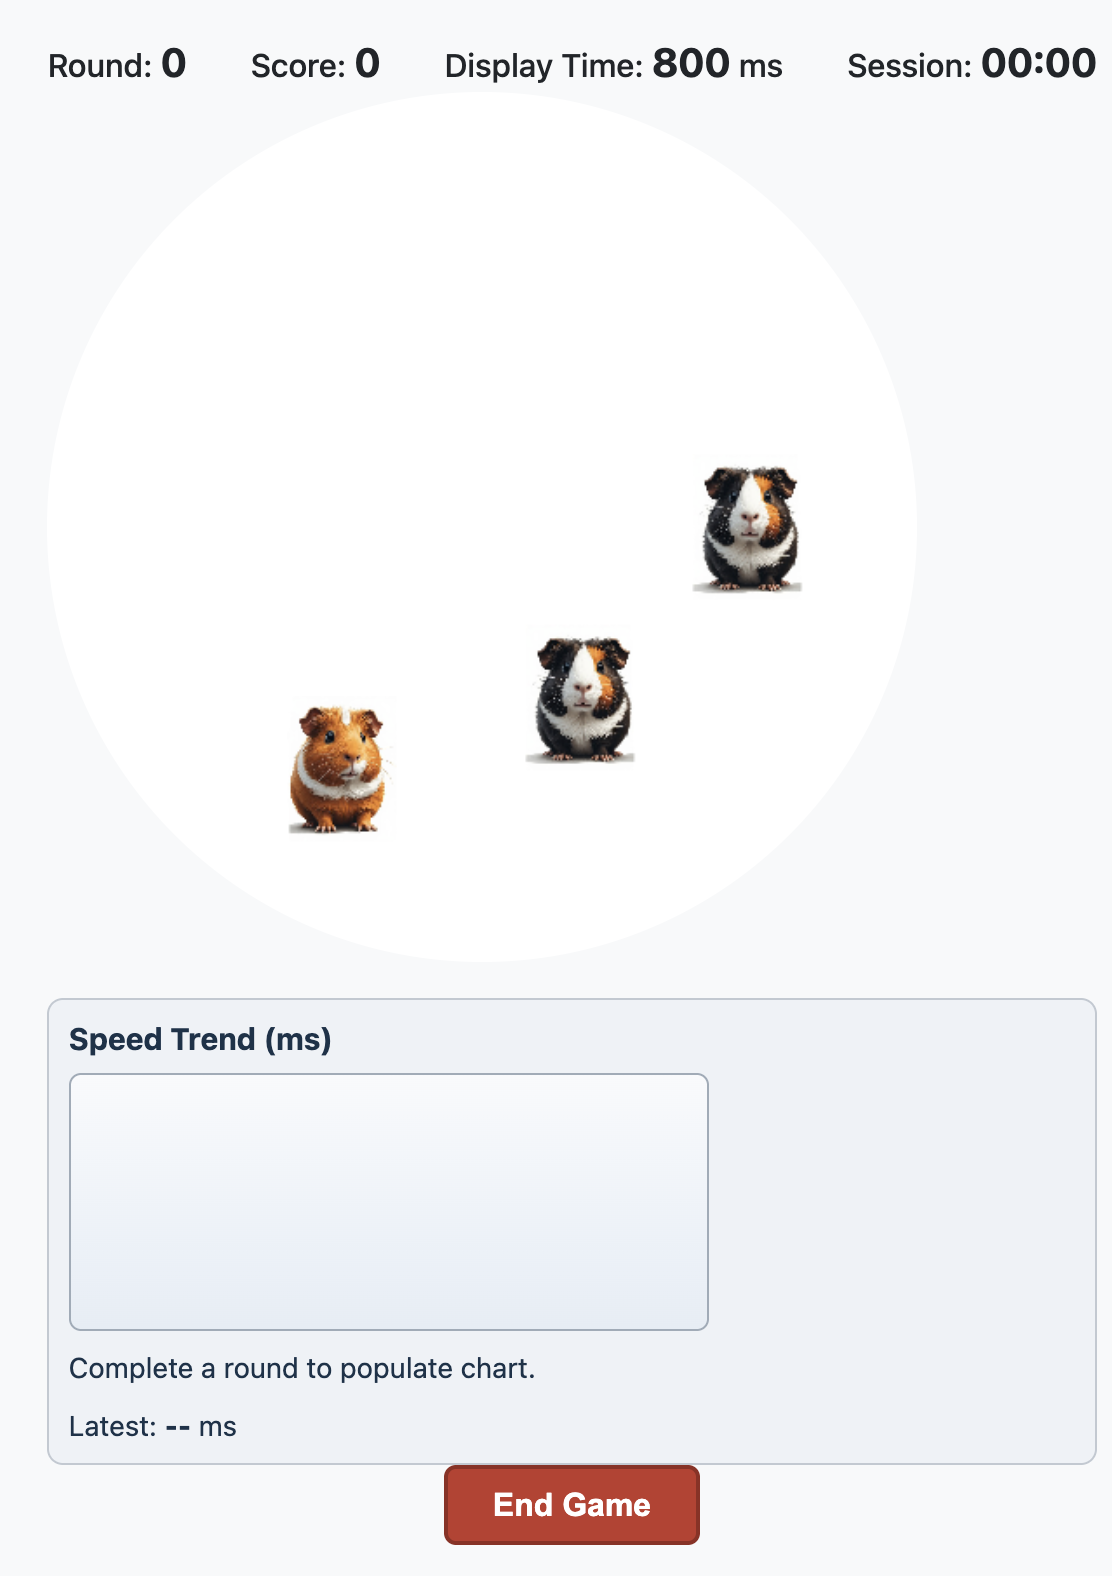
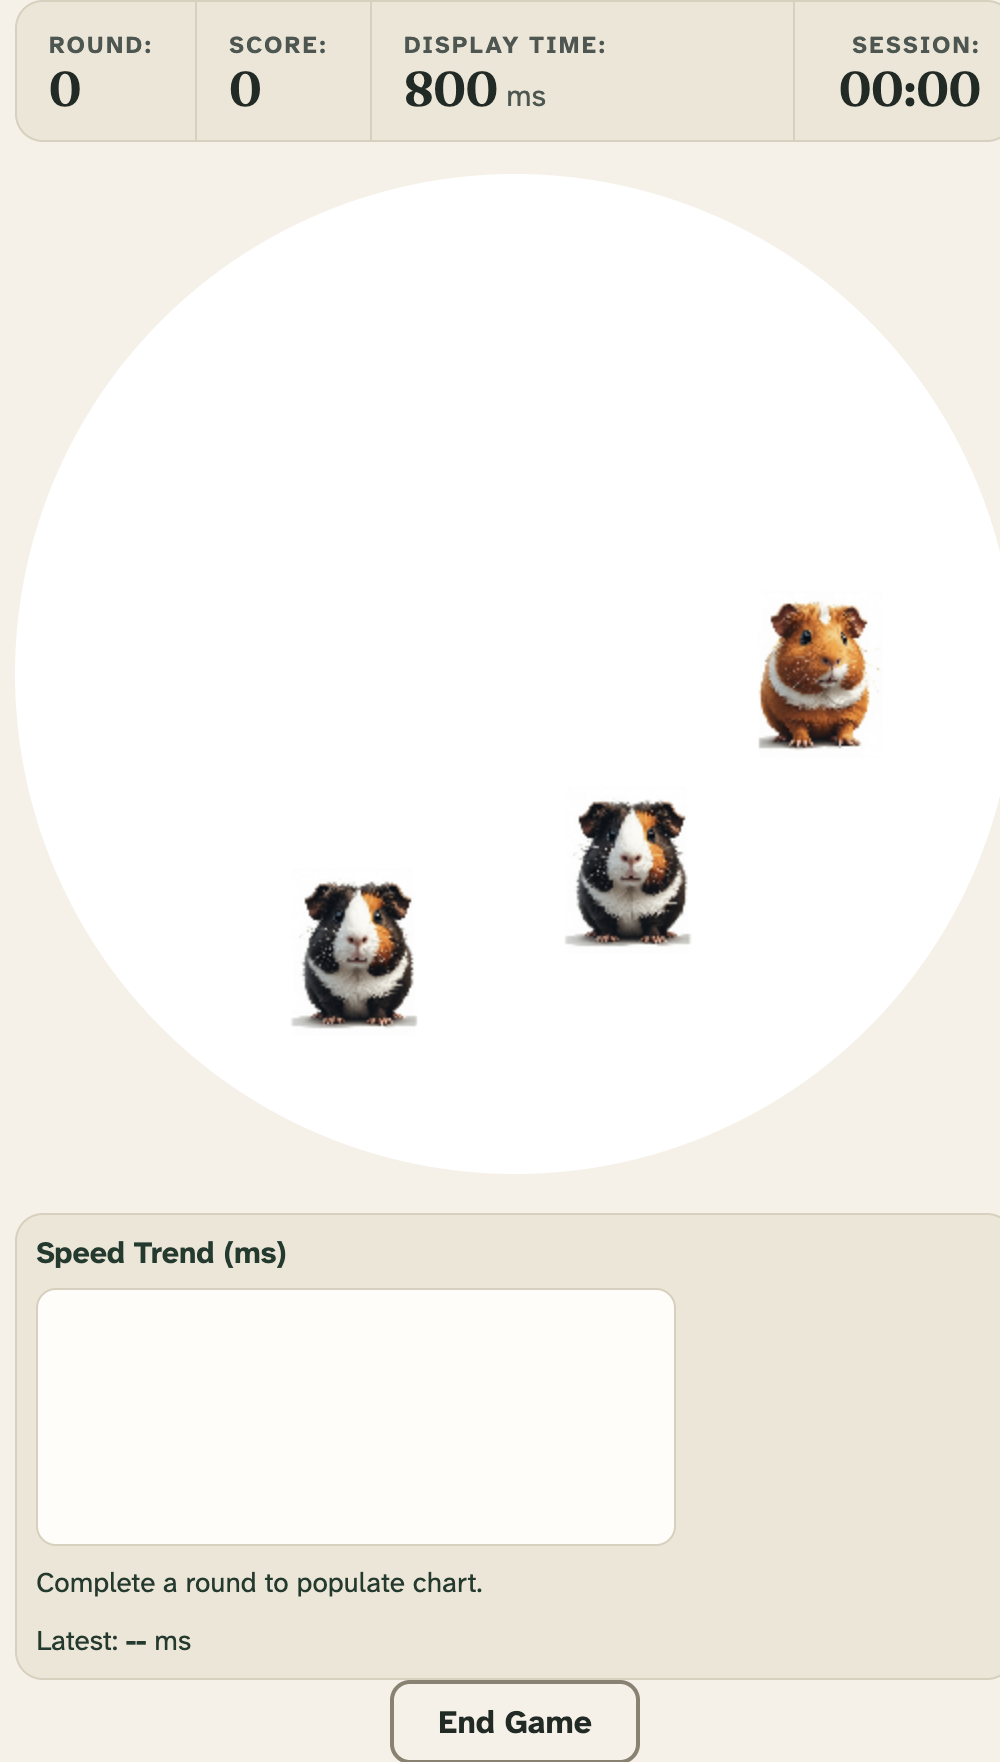
Retake Fast Piggie's tutorial screenshot
The old screenshot showed the previous design and an arbitrary crop.
The new one follows the shared standard: a 1280x880 window, clipped to
#fp-game-area, taken while the guinea pigs are on the wheel, as the
caption describes. The callout boxes are remeasured as percentages of
that clip.

The game area is tall and narrow, so the slide ran past the bottom of
an 880px window and pushed its title off the top. The image is now
capped to the space the slide's text leaves, and its wrapper shrinks
to the image so the callouts stay aligned.

Signed: Claude Code for Aaron Crosman

diff --git a/app/games/fast-piggie/style.css b/app/games/fast-piggie/style.css
@@ -113,14 +113,20 @@
   margin: 0.75rem 0 0;
 }
 
+/* The wrapper shrinks to the image, so the percentage callouts stay on their targets. */
 .fp-tutorial-image-wrap {
   position: relative;
+  width: fit-content;
+  margin-inline: auto;
 }
 
+/* The game area is tall and narrow. Cap its height to the window less the slide's text and
+   buttons (about 28rem), so the whole slide fits without scrolling. */
 .fp-tutorial-image {
   display: block;
-  width: 100%;
-  max-width: 540px;
+  width: auto;
+  max-width: 100%;
+  max-height: max(240px, calc(100vh - 28rem));
   border-radius: var(--radius-lg);
   border: 1px solid var(--border-color);
 }
@@ -142,26 +148,26 @@
 }
 
 .fp-tutorial-highlight--stats {
-  left: 1%;
-  top: 0.8%;
-  width: 98.5%;
-  height: 5.4%;
+  left: 0%;
+  top: 0%;
+  width: 100%;
+  height: 8.5%;
   color: var(--callout-1);
 }
 
 .fp-tutorial-highlight--board {
-  left: 2.5%;
-  top: 6.8%;
-  width: 79%;
-  height: 54.8%;
+  left: 0%;
+  top: 9.4%;
+  width: 100%;
+  height: 57.6%;
   color: var(--callout-2);
 }
 
 .fp-tutorial-highlight--controls {
-  left: 37.5%;
-  top: 92.3%;
-  width: 25%;
-  height: 6.3%;
+  left: 36.7%;
+  top: 94.8%;
+  width: 26.7%;
+  height: 5.2%;
   color: var(--callout-3);
 }
 
